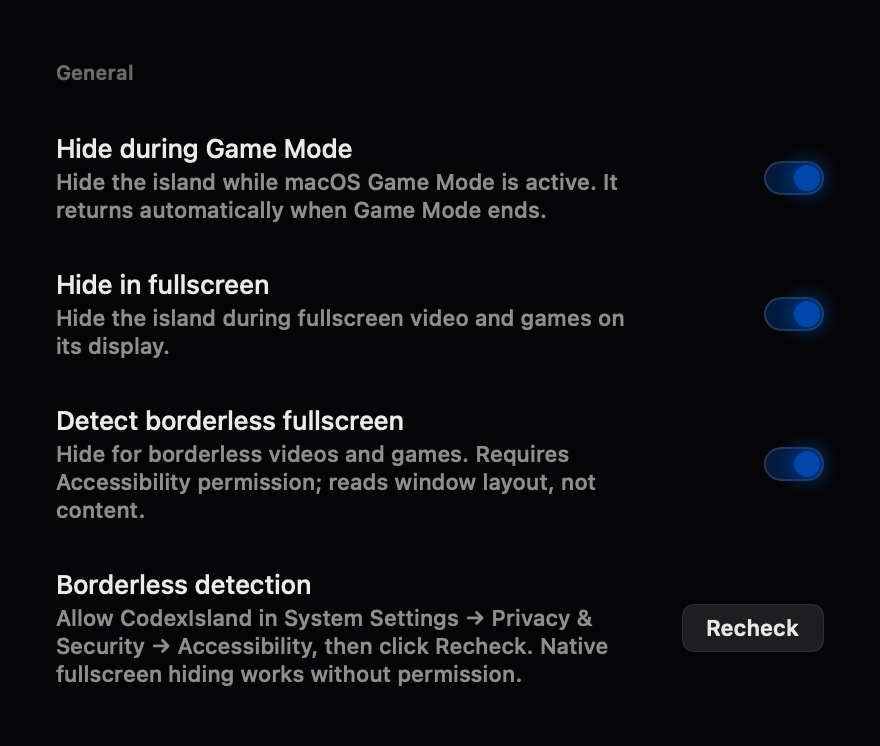
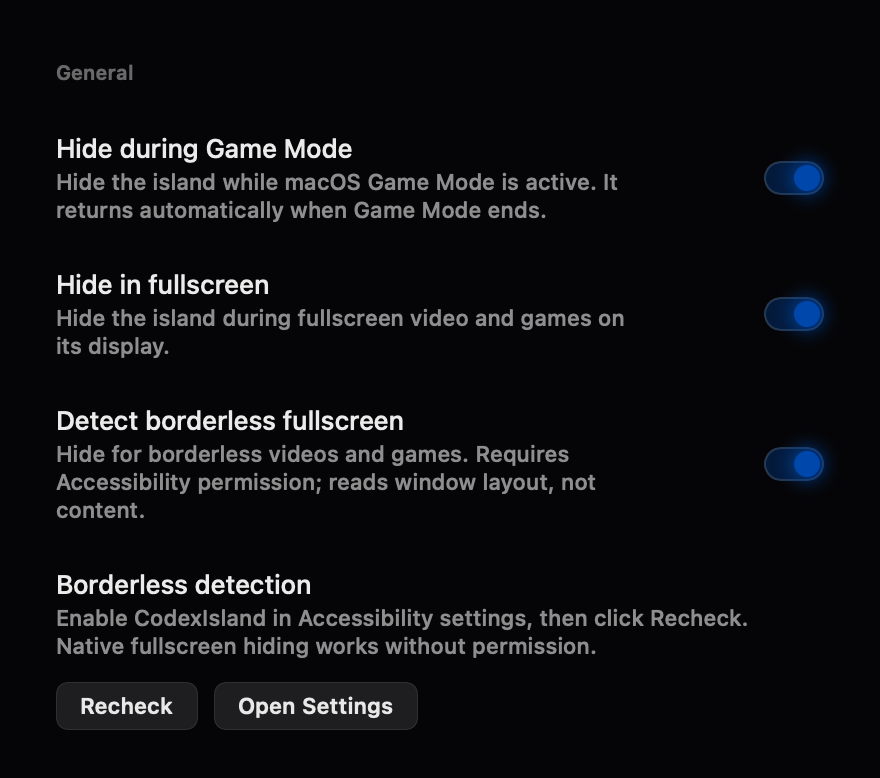
fix: request Accessibility access on borderless opt-in

diff --git a/Tests/FullscreenTests.swift b/Tests/FullscreenTests.swift
@@ -183,13 +183,17 @@ struct FullscreenTests {
         var nativeReads = 0
         var nativeFullscreen = false
         var borderless = false
+        var permissionRequests = 0
+        var settingsURLs: [URL] = []
+        var settingsOpenSucceeds = true
         let events = NotificationCenter()
         let appEvents = NotificationCenter()
         let lockEvents = NotificationCenter()
         var monitoredStore: FullscreenStore? = FullscreenStore(
             defaults: defaults, workspaceCenter: events, applicationCenter: appEvents,
             sessionCenter: lockEvents, windowMonitor: monitor,
-            accessibilityTrusted: { trusted }, readBorderless: {
+            accessibilityTrusted: { trusted }, requestAccessibility: { permissionRequests += 1 },
+            openSettings: { url in settingsURLs.append(url); return settingsOpenSucceeds }, readBorderless: {
                 borderlessReads += 1
                 return borderless
             }, readFullscreen: {
@@ -200,14 +204,42 @@ struct FullscreenTests {
         func settle() async { try? await Task.sleep(nanoseconds: 550_000_000) }
         check(monitoredStore?.detectBorderlessFullscreen == false, "Accessibility detection requires explicit opt-in")
         check(monitor.updates == 0 && borderlessReads == 0, "Default performs no Accessibility or borderless query")
+        check(permissionRequests == 0 && settingsURLs.isEmpty, "Startup neither requests access nor opens Settings")
         monitoredStore?.detectBorderlessFullscreen = true
-        check(monitoredStore?.borderlessStatus == .permissionRequired, "Missing permission is surfaced without prompting")
+        check(monitoredStore?.borderlessStatus == .permissionRequired && permissionRequests == 1,
+              "Turning borderless detection on requests missing permission once and reports its pending state")
+        monitoredStore?.detectBorderlessFullscreen = true
+        monitoredStore?.refresh()
+        check(permissionRequests == 1 && settingsURLs.isEmpty, "Repeated values and Recheck never prompt or open Settings")
+        do {
+            let restored = FullscreenStore(defaults: defaults, workspaceCenter: NotificationCenter(),
+                                           applicationCenter: NotificationCenter(), sessionCenter: NotificationCenter(),
+                                           requestAccessibility: { permissionRequests += 1 }, readFullscreen: { false })
+            check(restored.detectBorderlessFullscreen && permissionRequests == 1,
+                  "Restoring an enabled preference at launch never requests permission")
+        }
+        monitoredStore?.openAccessibilitySettings()
+        check(settingsURLs.last?.absoluteString == "x-apple.systempreferences:com.apple.settings.PrivacySecurity.extension?Privacy_Accessibility" && permissionRequests == 1,
+              "Open Settings targets the Accessibility permission pane without granting access or prompting")
+        settingsOpenSucceeds = false
+        monitoredStore?.openAccessibilitySettings()
+        check(monitoredStore?.accessibilitySettingsOpenFailed == true, "Failed Settings dispatch exposes manual navigation instructions")
+        settingsOpenSucceeds = true
+        monitoredStore?.openAccessibilitySettings()
+        check(monitoredStore?.accessibilitySettingsOpenFailed == false, "A successful Settings retry clears its error")
+        monitoredStore?.detectBorderlessFullscreen = false
+        check(permissionRequests == 1, "Turning the toggle off never requests permission")
+        monitoredStore?.detectBorderlessFullscreen = true
+        check(permissionRequests == 2, "A new explicit opt-in can request access again after denial")
         check(monitor.updates == 0 && borderlessReads == 0, "Missing permission performs no observer or geometry query")
         nativeFullscreen = true
         monitoredStore?.refresh()
         check(monitoredStore?.isActive == true, "Native fullscreen remains available without Accessibility permission")
         nativeFullscreen = false
         trusted = true
+        monitoredStore?.detectBorderlessFullscreen = false
+        monitoredStore?.detectBorderlessFullscreen = true
+        check(permissionRequests == 2, "Already granted access does not trigger a permission request")
         monitoredStore?.refresh()
         check(monitoredStore?.borderlessStatus == .observing && monitor.running, "Explicit recheck attaches after permission grant")
         borderless = true
@@ -238,6 +270,11 @@ struct FullscreenTests {
         borderless = true
         monitor.onChange?()
         monitoredStore?.hideInFullscreen = false
+        monitoredStore?.detectBorderlessFullscreen = false
+        trusted = false
+        monitoredStore?.detectBorderlessFullscreen = true
+        check(permissionRequests == 2, "A disabled fullscreen feature cannot request Accessibility access")
+        trusted = true
         let disabledReads = nativeReads + borderlessReads
         events.post(name: NSWorkspace.activeSpaceDidChangeNotification, object: nil)
         await settle()
@@ -402,6 +439,40 @@ struct FullscreenTests {
         await settle()
         delayed.reply(true)
         check(delayedReads == allowedReads && !delayed.running, "Teardown invalidates in-flight observer completion")
+        let nativeSession = NotificationCenter()
+        var nativeReading = true
+        var nativeLockReads = 0
+        let nativeOnly = FullscreenStore(defaults: defaults, workspaceCenter: NotificationCenter(),
+                                         applicationCenter: NotificationCenter(), sessionCenter: nativeSession,
+                                         readFullscreen: { nativeLockReads += 1; return nativeReading })
+        nativeOnly.detectBorderlessFullscreen = false
+        let lockProbe = NativeLockVisibilityProbe()
+        let nativeObservation = nativeOnly.$isActive.combineLatest(nativeOnly.$isCheckingBorderless).sink { active, checking in
+            lockProbe.state.isFullscreen = active || checking
+            lockProbe.samples.append(!lockProbe.state.shouldHide)
+        }
+        let nativeLock = Notification.Name("com.apple.screenIsLocked")
+        let lateControllerObserver = nativeSession.addObserver(forName: nativeLock, object: nil, queue: .main) { _ in
+            Task { @MainActor in
+                lockProbe.state.isSessionLocked = true
+                lockProbe.samples.append(!lockProbe.state.shouldHide)
+            }
+        }
+        nativeSession.post(name: nativeLock, object: nil)
+        await settle()
+        check(nativeOnly.isActive && !lockProbe.samples.contains(true),
+              "A native-fullscreen lock never reveals the island before the controller's later lock task")
+        let lockedReads = nativeLockReads
+        nativeOnly.refresh()
+        check(nativeLockReads == lockedReads && nativeOnly.isActive,
+              "Native suppression stays cached during suspension without WindowServer queries")
+        nativeReading = false
+        nativeSession.post(name: .init("com.apple.screenIsUnlocked"), object: nil)
+        await settle()
+        check(!nativeOnly.isActive && nativeLockReads > lockedReads,
+              "A fresh desktop snapshot clears cached native suppression on resume")
+        nativeObservation.cancel()
+        nativeSession.removeObserver(lateControllerObserver)
         print("PASS \(checks) fullscreen and visibility checks")
     }
 }
@@ -423,4 +494,10 @@ private final class WindowMonitorSpy: FullscreenWindowMonitoring {
     }
     func reply(_ supported: Bool) { replies.removeFirst()(supported) }
     func stop() { stops += 1; running = false }
+}
+
+@MainActor
+private final class NativeLockVisibilityProbe {
+    var state = IslandVisibilityState()
+    var samples: [Bool] = []
 }

diff --git a/Sources/Model/FullscreenStore.swift b/Sources/Model/FullscreenStore.swift
@@ -1,6 +1,6 @@
 import AppKit
 import Combine
-import ApplicationServices
+@preconcurrency import ApplicationServices
 
 struct FullscreenDetectionContext: Equatable, Sendable {
     var displayID: String?
@@ -19,6 +19,11 @@ final class FullscreenStore: ObservableObject {
         windowMonitor: FullscreenAccessibilityMonitor(),
         detectionContext: { FullscreenDetectionContext.current() },
         accessibilityTrusted: { AXIsProcessTrusted() },
+        requestAccessibility: {
+            let options = [kAXTrustedCheckOptionPrompt.takeUnretainedValue() as String: true] as CFDictionary
+            _ = AXIsProcessTrustedWithOptions(options)
+        },
+        openSettings: { NSWorkspace.shared.open($0) },
         readBorderless: {
             guard let display = DisplayInfo.currentTarget() else { return nil }
             return FullscreenWindowReader.read(targetDisplayID: display.displayID)
@@ -28,6 +33,7 @@ final class FullscreenStore: ObservableObject {
         }
     )
     static let borderlessPreferenceKey = "MacIsland.detectBorderlessFullscreen"
+    static let accessibilitySettingsURL = URL(string: "x-apple.systempreferences:com.apple.settings.PrivacySecurity.extension?Privacy_Accessibility")
 
     enum BorderlessStatus {
         case disabled, permissionRequired, observing, unsupported
@@ -36,10 +42,14 @@ final class FullscreenStore: ObservableObject {
     @Published var detectBorderlessFullscreen: Bool {
         didSet {
             defaults.set(detectBorderlessFullscreen, forKey: Self.borderlessPreferenceKey)
+            if detectBorderlessFullscreen && !oldValue && hideInFullscreen && !accessibilityTrusted() {
+                requestAccessibility()
+            }
             refresh()
         }
     }
     @Published private(set) var borderlessStatus: BorderlessStatus = .disabled
+    @Published private(set) var accessibilitySettingsOpenFailed = false
     static let preferenceKey = "MacIsland.hideInFullscreen"
 
     @Published var hideInFullscreen: Bool {
@@ -56,6 +66,8 @@ final class FullscreenStore: ObservableObject {
     private let observers = FullscreenNotificationObservers()
     private let windowMonitor: FullscreenWindowMonitoring?
     private let accessibilityTrusted: () -> Bool
+    private let requestAccessibility: () -> Void
+    private let openSettings: (URL) -> Bool
     private let readBorderless: () -> Bool?
     private let detectionContext: () -> FullscreenDetectionContext
     private var observationContext: FullscreenDetectionContext?
@@ -80,6 +92,8 @@ final class FullscreenStore: ObservableObject {
          windowMonitor: FullscreenWindowMonitoring? = nil,
          detectionContext: @escaping () -> FullscreenDetectionContext = { FullscreenDetectionContext() },
          accessibilityTrusted: @escaping () -> Bool = { false },
+         requestAccessibility: @escaping () -> Void = {},
+         openSettings: @escaping (URL) -> Bool = { _ in false },
          readBorderless: @escaping () -> Bool? = { false },
          readFullscreen: @escaping () -> Bool?) {
         self.defaults = defaults
@@ -87,6 +101,8 @@ final class FullscreenStore: ObservableObject {
         self.windowMonitor = windowMonitor
         self.detectionContext = detectionContext
         self.accessibilityTrusted = accessibilityTrusted
+        self.requestAccessibility = requestAccessibility
+        self.openSettings = openSettings
         self.readBorderless = readBorderless
         detectBorderlessFullscreen = defaults.bool(forKey: Self.borderlessPreferenceKey)
         hideInFullscreen = defaults.object(forKey: Self.preferenceKey) == nil
@@ -121,6 +137,11 @@ final class FullscreenStore: ObservableObject {
         sample()
     }
 
+    func openAccessibilitySettings() {
+        guard let url = Self.accessibilitySettingsURL else { return }
+        accessibilitySettingsOpenFailed = !openSettings(url)
+    }
+
     private func sample() {
         snapshotRevision += 1
         let revision = snapshotRevision
@@ -130,9 +151,11 @@ final class FullscreenStore: ObservableObject {
             hasBorderlessResult = false
             isCheckingBorderless = hideInFullscreen && detectBorderlessFullscreen && windowMonitor != nil
             borderlessStatus = .disabled
-            nativeFullscreen = false
+            // Keep native suppression until the resume snapshot: the controller's
+            // separate lock handler may run after this store's notification task.
+            if !hideInFullscreen { nativeFullscreen = false }
             borderlessFullscreen = false
-            isActive = false
+            publishVisibility()
             return
         }
         let context = detectionContext()

diff --git a/Tests/FullscreenAccessibilityTests.swift b/Tests/FullscreenAccessibilityTests.swift
@@ -19,6 +19,12 @@ struct FullscreenAccessibilityTests {
             }
         }
         func settle() async { try? await Task.sleep(nanoseconds: 50_000_000) }
+        func waitUntil(_ condition: () -> Bool) async {
+            for _ in 0..<200 {
+                if condition() { return }
+                try? await Task.sleep(nanoseconds: 10_000_000)
+            }
+        }
         let first = FakeAccessibilitySession(pid: 123)
         let second = FakeAccessibilitySession(pid: 456)
         let factory = FakeAccessibilityFactory(sessions: [123: first, 456: second])
@@ -79,7 +85,8 @@ struct FullscreenAccessibilityTests {
         for _ in 0..<5 {
             let removed = budgetSession.removals
             finishedBudget = await update(budgetMonitor)
-            check(budgetSession.removals > removed, "Each event makes progress on obsolete registrations")
+            check(finishedBudget || budgetSession.removals > removed,
+                  "Each event advances obsolete removal or completes replacement registration")
             if finishedBudget { break }
         }
         check(finishedBudget, "Later events finish partial reconciliation rather than repeating old removals")
@@ -99,14 +106,14 @@ struct FullscreenAccessibilityTests {
         check(ProcessInfo.processInfo.systemUptime - started < 0.15, "Slow AX work does not block the calling main actor")
         await settle()
         check(slowResult == nil, "Main actor stays responsive while a slow AX query is pending")
-        try? await Task.sleep(nanoseconds: 300_000_000)
+        await waitUntil { slowResult != nil }
         check(slowResult == false && slow.registrations.count == 3,
               "An exhausted reconciliation budget fails open without registering geometry notifications")
         slowResult = nil
         slowMonitor?.update { slowResult = $0 }
         await settle()
         slowMonitor?.stop()
-        try? await Task.sleep(nanoseconds: 300_000_000)
+        await waitUntil { slowResult != nil && slow.registrations.isEmpty }
         check(slowResult == false && slow.registrations.isEmpty, "Stopping an in-flight query discards its result")
         slowMonitor = nil
         await settle()

diff --git a/Sources/Views/SettingsView.swift b/Sources/Views/SettingsView.swift
@@ -275,9 +275,15 @@ struct SettingsView: View {
                 .disabled(!fullscreen.hideInFullscreen)
             }
             if fullscreen.hideInFullscreen && fullscreen.detectBorderlessFullscreen {
-                SettingsRow(title: "Borderless detection", subtitle: borderlessDetectionSubtitle) {
+                SettingsRow(title: "Borderless detection", subtitle: borderlessDetectionSubtitle) {}
+                HStack(spacing: 8) {
                     PillButton(label: "Recheck") { fullscreen.refresh() }
+                    PillButton(label: "Open Settings") { fullscreen.openAccessibilitySettings() }
+                        .accessibilityLabel(L10n.tr("Open Accessibility settings"))
+                    Spacer(minLength: 0)
                 }
+                .padding(.horizontal, 10)
+                .padding(.bottom, 6)
             }
             SettingsRow(
                 title: "Low Power Mode",
@@ -489,9 +495,12 @@ struct SettingsView: View {
     }
 
     private var borderlessDetectionSubtitle: String {
+        if fullscreen.accessibilitySettingsOpenFailed {
+            return "Could not open System Settings. Go to Privacy & Security → Accessibility, enable CodexIsland, then click Recheck."
+        }
         switch fullscreen.borderlessStatus {
         case .permissionRequired:
-            return "Allow CodexIsland in System Settings → Privacy & Security → Accessibility, then click Recheck. Native fullscreen hiding works without permission."
+            return "Enable CodexIsland in Accessibility settings, then click Recheck. Native fullscreen hiding works without permission."
         case .unsupported:
             return "No supported foreground window notifications. Native fullscreen hiding remains available; borderless changes may be missed."
         case .observing:

diff --git a/docs/PERFORMANCE.md b/docs/PERFORMANCE.md
@@ -21,12 +21,20 @@ Spaces. Missing symbols, display mappings, or unfamiliar payloads fail open.
 Native fullscreen detection reads at startup and on Space, application activation/termination,
 wake, display-change, target-selection and unlock events. Disabling fullscreen
 hiding stops all fullscreen queries and detaches the Accessibility observer.
-System/display sleep and session lock also suspend detection.
+System/display sleep and session lock also suspend detection. Native suppression
+is retained while suspended until a fresh resume snapshot, so the fullscreen
+store cannot reveal the window before the separate controller lock handler runs.
+Disabling fullscreen hiding still clears the cached result.
 
 Borderless detection is a separate, default-off opt-in (`MacIsland.detectBorderlessFullscreen`).
-It requires Accessibility permission granted manually in System Settings; the
-app never prompts automatically. Settings explains the purpose and has a Recheck
-button after granting access. Native fullscreen needs no Accessibility permission.
+Turning its toggle on requests Accessibility permission when access is missing.
+The request uses [AXIsProcessTrustedWithOptions](https://developer.apple.com/documentation/applicationservices/1459186-axisprocesstrustedwithoptions)
+with the prompt option; macOS
+shows the request asynchronously and the user grants access in System Settings.
+Startup, restored preferences, Recheck, and OS events never prompt. Settings
+provides Recheck and Open Settings actions; Open Settings targets the Accessibility
+permission pane and reports a dispatch failure with manual navigation instructions.
+Native fullscreen needs no Accessibility permission.
 
 `FullscreenAccessibilityMonitor` attaches one AXObserver to the foreground app.
 It observes focused/main-window changes and window creation, plus resize, move,
@@ -92,8 +100,12 @@ stale callbacks, off-main execution and teardown. Both suites observe at least
 three idle seconds without additional queries. This establishes query behavior,
 not a battery or CPU-energy measurement.
 The monitor and trust status are injected: tests neither request Accessibility
-permission nor inspect live apps. Window interaction tests cover restoration and
-focus guards. These checks do not establish live AX notification delivery.
+permission nor inspect live apps. Injected request/open handlers verify user-toggle
+requests, quiet startup/Recheck, the Settings URL and failed-dispatch recovery.
+A late controller lock-handler fixture verifies native suppression has no transient
+clear before the controller processes the same lock notification. Window
+interaction tests cover restoration and focus guards. These checks do not
+establish live AX notification delivery.
 Live acceptance requires separate approval: native browser fullscreen/Space
 switches, supported and unsupported borderless apps, app/window replacement,
 permission grant/revocation, selected displays, sleep/lock, and preserved focus.

diff --git a/docs/images/auto-hide/README.md b/docs/images/auto-hide/README.md
@@ -15,9 +15,10 @@ These are offscreen SwiftUI renders, not screenshots or recordings of a desktop.
   replacement, from `2572c6c`.
 - `after-events.png` and `after-events-zh-Hans.png`: the current default settings,
   including the default-off borderless toggle.
-- `after-events-enabled.png`: borderless detection enabled with the manual
-  Accessibility permission instructions and Recheck button. This is a fixture
-  state, not evidence of live permission or notification delivery.
+- `after-events-enabled.png` and `after-events-enabled-zh-Hans.png`: borderless
+  detection enabled with permission instructions, Recheck and Open Settings
+  buttons. These are fixture states, not evidence of live permission or
+  notification delivery.
 
 The event-driven images use the current production row/toggle/button components.
 Titles, subtitles and permission instructions were extracted from `SettingsView`;

diff --git a/README.zh-CN.md b/README.zh-CN.md
@@ -97,8 +97,8 @@ Claude：
 
 “通用 → 全屏时隐藏”也默认开启，可独立控制。灵动岛所在显示器进入原生全屏空间时，
 包括浏览器全屏视频和分屏视图，会自动隐藏。“检测无边框全屏”是默认关闭的可选功能，
-通过辅助功能窗口通知检测占满所选显示器的前台视频或游戏。请手动授予辅助功能权限，
-然后点击“重新检查”。不支持通知的应用可能无法检测；不会退回定时轮询。
+通过辅助功能窗口通知检测占满所选显示器的前台视频或游戏。开启开关会请求辅助功能权限；
+点击“打开设置”可直接进入权限页面，手动允许后点击“重新检查”。不支持通知的应用可能无法检测；不会退回定时轮询。
 保留菜单栏或程序坞空间的普通最大化窗口不受影响。
 
 主要偏好：

diff --git a/README.md b/README.md
@@ -103,8 +103,8 @@ for authentication details and data limitations.
   including browser video and Split View. Enabled by default; control it with
   **General → Hide in fullscreen**. Optional **Detect borderless fullscreen**
   uses Accessibility window notifications for foreground videos and games that
-  fill the selected display. Grant access manually in System Settings, then
-  click Recheck. Unsupported apps may miss borderless changes; no polling is used.
+  fill the selected display. Turning it on requests Accessibility access. Use
+  Open Settings to grant access in the permission pane, then click Recheck. Unsupported apps may miss borderless changes; no polling is used.
 - **English and Simplified Chinese.** Follow the macOS language automatically
   or choose a language in Settings.
 - **Display selection.** Auto-pick a notched display or pin the island to a
